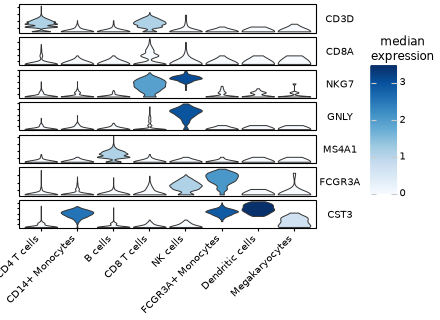
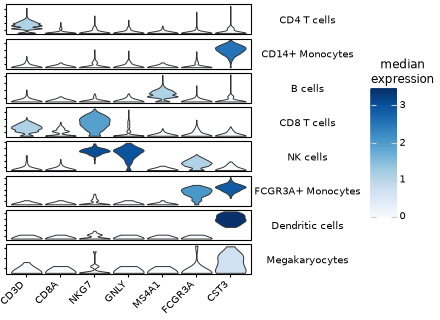
feat: stacked violin defaults to Scanpy's groups-as-rows layout, add swap_axes
The default now matches sc.pl.stacked_violin: groups on rows, genes along x
(labels at 45 degrees). swap_axes=True restores the previous genes-as-rows
layout with 90 degree group labels. Both comparison images use the default.

Changed region(s): [[0.0, 0.0, 1.0, 0.9688], [0.2364, 0.9062, 0.2659, 0.9375]]

diff --git a/src/ggann/distributions.py b/src/ggann/distributions.py
@@ -896,18 +896,19 @@ def plot_stacked_violin(
     downsample: int | None = None,
     random_state: int | None = 0,
     log: bool = False,
-    rotation: float = 90,
+    rotation: float | None = None,
+    swap_axes: bool = False,
     stripplot: bool = False,
     yticklabels: bool = False,
     cmap: str = "Blues",
 ):
-    """Compact genes-as-rows violin grid across groups (``sc.pl.stacked_violin``).
+    """Compact violin grid across groups (``sc.pl.stacked_violin``).
 
-    Genes are rows and groups run along x, the layout of
-    ``sc.pl.stacked_violin(..., swap_axes=True)`` (Scanpy's default puts groups
-    as rows). As in Scanpy, each violin is filled by that group's **median**
+    Groups are rows and genes run along x, Scanpy's default layout.
+    ``swap_axes=True`` puts genes on rows and groups along x instead. As in
+    Scanpy, each violin is filled by that group's **median**
     expression of the gene (``cmap``, shared colour bar). Each row has its own y range and no y tick labels (``yticklabels``
-    restores them), so many genes stay readable. ``downsample`` caps cells per
+    restores them), so many rows stay readable. ``downsample`` caps cells per
     group before the KDE; ``random_state`` controls which cells are retained and
     seeds the ``stripplot`` jitter.
 
@@ -916,9 +917,9 @@ def plot_stacked_violin(
     adata
         Annotated data matrix.
     genes : sequence of str
-        Genes (or numeric obs columns) shown as rows.
+        Genes (or numeric obs columns), along x (rows with ``swap_axes``).
     group_by : str
-        Observation grouping column.
+        Observation grouping column, shown as rows (along x with ``swap_axes``).
     layer, use_raw : optional
         Mutually exclusive expression source.
     scale : str
@@ -933,9 +934,12 @@ def plot_stacked_violin(
         Downsampling and jitter seed; ``None`` is nondeterministic.
     log : bool
         Plot ``log1p(expression)``; zeros stay at zero.
-    rotation : float, default=90
-        Group-label angle in degrees. Vertical labels, as in Scanpy, never
-        hang past the left edge; at smaller angles a long first label can.
+    rotation : float, optional
+        X-label angle in degrees. Default 45 for gene labels and 90 for group
+        labels (``swap_axes=True``). Vertical labels, as in Scanpy, never hang
+        past the left edge; at smaller angles a long first label can.
+    swap_axes : bool, default=False
+        Genes as rows and groups along x (Scanpy's ``swap_axes=True`` layout).
     stripplot : bool
         Overlay the individual cells as jitter.
     yticklabels : bool
@@ -973,10 +977,11 @@ def plot_stacked_violin(
         categories_order = _group_categories(adata, group_by)
     tidy = _order_groups(tidy, group_by, categories_order)
     tidy["median"] = tidy.groupby(["feature", group_by], observed=True)["value"].transform("median")
+    xcol, row = (group_by, "feature") if swap_axes else ("feature", group_by)
     plot = (
-        ggplot(tidy, aes(group_by, "value", fill="median"))
+        ggplot(tidy, aes(xcol, "value", fill="median"))
         + geom_violin(scale=scale)
-        + facet_grid("feature ~ .", scales="free_y")
+        + facet_grid(f"{row} ~ .", scales="free_y")
     )
     if stripplot:
         plot = plot + geom_jitter(
@@ -994,7 +999,7 @@ def plot_stacked_violin(
         + labs(x="", y="", fill="median\n" + ("log1p(expr)" if log else "expression"))
         + _family_theme("distribution")
         + theme(strip_text_y=element_text(angle=0))
-        + pe.rotate_x_text(rotation)
+        + pe.rotate_x_text((90 if swap_axes else 45) if rotation is None else rotation)
     )
     if not yticklabels:
         plot = plot + theme(axis_text_y=element_blank(), axis_ticks_major_y=element_blank())

diff --git a/tests/test_release_dist.py b/tests/test_release_dist.py
@@ -146,13 +146,24 @@ def test_A4_log_rejects_scaled_negative_values(adata):
 
 
 def test_A4_stacked_violin_scanpy_orientation_and_median_fill(adata):
+    # default = Scanpy's default: groups on the facet rows, genes along x
     plot = ag.plot_stacked_violin(adata, GENES, GROUP, use_raw=True)
-    assert type(plot.facet).__name__ == "facet_grid" and plot.facet.rows == ["feature"]
+    assert type(plot.facet).__name__ == "facet_grid" and plot.facet.rows == [GROUP]
     d = plot.data
     med = d.groupby(["feature", GROUP], observed=True)["value"].median()
     got = d.groupby(["feature", GROUP], observed=True)["median"].first()
     assert np.allclose(med.to_numpy(), got.to_numpy())
+    assert plot.mapping["x"] == "feature" and plot.mapping["fill"] == "median"
+    fig = plot.draw()
+    assert len(fig.axes) >= adata.obs[GROUP].nunique()  # one row per group
+
+
+def test_stacked_violin_swap_axes_is_the_genes_as_rows_layout(adata):
+    plot = ag.plot_stacked_violin(adata, GENES, GROUP, use_raw=True, swap_axes=True)
+    assert plot.facet.rows == ["feature"]
     assert plot.mapping["x"] == GROUP and plot.mapping["fill"] == "median"
+    same = ag.plot_stacked_violin(adata, GENES, GROUP, use_raw=True).data
+    pd.testing.assert_frame_equal(plot.data, same)  # only the layout differs
     fig = plot.draw()
     assert len(fig.axes) >= len(GENES)  # one row per gene
 
@@ -472,13 +483,13 @@ def test_Q12_ridge_warns_for_constant_gene_and_bandwidth_changes_curve(adata):
 
 def test_Q12_stacked_violin_hides_crowded_y_labels_by_default(adata):
     genes = list(adata.raw.var_names[:10])
-    plot = ag.plot_stacked_violin(adata, genes, GROUP, use_raw=True)
-    fig = plot.draw()
-    assert all(
-        not [t for t in ax.get_yticklabels() if t.get_text()] for ax in fig.axes[: len(genes)]
-    )
-    shown = ag.plot_stacked_violin(adata, genes[:2], GROUP, use_raw=True, yticklabels=True).draw()
-    assert any(t.get_text() for ax in shown.axes for t in ax.get_yticklabels())
+    for swap in (False, True):
+        plot = ag.plot_stacked_violin(adata, genes, GROUP, use_raw=True, swap_axes=swap)
+        fig = plot.draw()
+        assert all(not [t for t in ax.get_yticklabels() if t.get_text()] for ax in fig.axes)
+        kw = dict(use_raw=True, yticklabels=True, swap_axes=swap)
+        shown = ag.plot_stacked_violin(adata, genes[:2], GROUP, **kw).draw()
+        assert any(t.get_text() for ax in shown.axes for t in ax.get_yticklabels())
 
 
 # --------------------------------------------------------------------------- #
@@ -572,12 +583,14 @@ def test_VERIFY4_tracksplot_missing_group_not_visible(adata):
     plt.close(fig)
 
 
-def test_stacked_violin_first_x_label_inside_canvas(adata):
+@pytest.mark.parametrize("swap", [False, True])
+def test_stacked_violin_first_x_label_inside_canvas(adata, swap):
     # hidden y labels must not take away the space the first rotated x label needs
     from matplotlib.backends.backend_agg import FigureCanvasAgg
 
     genes = ["CD3D", "NKG7", "CST3"]
-    fig = ag.plot_stacked_violin(adata, genes, "bulk_labels", use_raw=True).draw()  # default 90
+    plot = ag.plot_stacked_violin(adata, genes, "bulk_labels", use_raw=True, swap_axes=swap)
+    fig = plot.draw()  # default rotation: 45 for genes, 90 for groups
     canvas = FigureCanvasAgg(fig)
     canvas.draw()
     renderer = canvas.get_renderer()

diff --git a/examples/reproduce_scanpy.py b/examples/reproduce_scanpy.py
@@ -76,9 +76,7 @@ def pairs(adata):
             lambda: ag.plot_matrixplot(adata, MARKERS, GROUP),
         ),
         "stacked_violin": (
-            # Scanpy 1.12 puts groups on rows by default; swap_axes=True gives
-            # ggann's layout (genes as rows, groups along x).
-            lambda: sc.pl.stacked_violin(adata, MARKERS, groupby=GROUP, swap_axes=True, show=False),
+            lambda: sc.pl.stacked_violin(adata, MARKERS, groupby=GROUP, show=False),
             lambda: ag.plot_stacked_violin(adata, MARKERS, GROUP),
         ),
         "violin": (

diff --git a/CHANGELOG.md b/CHANGELOG.md
@@ -91,8 +91,10 @@ Check these before re-running a figure made with a pre-release build.
 - Defaults follow Scanpy: rank-genes `n_genes=10`, rank matrixplot
   `standard_scale=None`, `plot_variance_ratio(n_pcs=30, log=False)`,
   `plot_highest_expr_genes` 30 genes.
-- `plot_stacked_violin` fills each violin by group median expression, draws
-  genes as rows (Scanpy's `swap_axes=True` layout) and labels groups at 90°.
+- `plot_stacked_violin` fills each violin by group median expression and draws
+  groups as rows with genes along x (labels at 45°), as Scanpy does by default.
+  Pass `swap_axes=True` for the earlier layout: genes as rows, groups along x
+  with labels at 90°.
 - Without stored `adata.uns["<key>_colors"]`, discrete scales use Scanpy's
   default palette instead of plotnine hues.
 - Inside `style_context`, `plot_features` and `plot_density` default to the
@@ -176,7 +178,7 @@ Check these before re-running a figure made with a pre-release build.
 
 - `plot_violin`, `plot_box`, `plot_sina`, `plot_stacked_violin`, `plot_ridge`, `plot_expression_bar` accept numeric `adata.obs` columns in `genes` (bare name, `ggann.obs("x")` or `"obs:x"`). A bare name that is also a gene stays a gene.
 - New `log=True` (violin, box, sina, stacked): plots `log1p(expression)`, zeros kept, axis labelled `log1p(expression)`. Values <= -1 raise.
-- New `order=` (subset and order of groups) and `rotation=` on violin, box, sina, stacked violin. `plot_violin` gains `jitter_size`/`jitter_alpha`; `plot_stacked_violin` gains `stripplot`, `yticklabels`, `cmap`.
+- New `order=` (subset and order of groups) and `rotation=` on violin, box, sina, stacked violin. `plot_violin` gains `jitter_size`/`jitter_alpha`; `plot_stacked_violin` gains `stripplot`, `yticklabels`, `cmap`, `swap_axes`.
 - `plot_stacked_violin` now fills each violin by group median expression (shared colour bar, `cmap="Blues"`), as scanpy does. Rows have no y tick labels by default. The group palette fill is gone.
 - Grouped marker helpers: a gene under several labels is drawn once per label (no more ValueError); values come from one computation per gene. `plot_tracksplot` accepts a `{label: [genes]}` dict (tracks titled `gene [label]`). Non-dict `gene_groups` raises TypeError.
 - `plot_tracksplot` draws `geom_rect` (about 12x to 23x faster, identical rectangles) and labels groups on the x axis.

diff --git a/docs/scanpy_parity.md b/docs/scanpy_parity.md
@@ -97,13 +97,12 @@ Helper: `plot_violin`.
 Helper: `plot_stacked_violin`.
 
 - Accepted: `var_names` as `genes`, `groupby`, `use_raw`, `layer`, `log`,
-  `order`, `rotation`, `stripplot`, `yticklabels`, `cmap`, `scale`.
-- Not supported: `dendrogram`, `swap_axes`, `var_group_positions`,
+  `order`, `rotation`, `swap_axes`, `stripplot`, `yticklabels`, `cmap`, `scale`.
+- Not supported: `dendrogram`, `var_group_positions`,
   `standard_scale`, `row_palette`, `colorbar_title`, `figsize`, a dict of marker
   groups.
-- Genes are rows and groups run along x. Scanpy 1.12 draws groups as rows and
-  genes along x by default; its `swap_axes=True` gives the ggann layout, and the
-  comparison image below uses it. Each violin is filled by the group's median
+- Groups are rows and genes run along x, as in Scanpy's default; `swap_axes=True`
+  transposes both. Each violin is filled by the group's median
   expression with one shared colour bar (`cmap="Blues"`), as in Scanpy. Rows
   have no y tick labels unless `yticklabels=True`.
 - Grammar: the violin recipe with `facet_grid("feature ~ .", scales="free_y")`
@@ -258,9 +257,8 @@ for those workflows.
 
 The committed images were generated by `examples/reproduce_scanpy.py` from one
 `pbmc3k_processed` object. They are visual references, not performance evidence.
-Two pairs use non-default options so that both sides show the same layout or
-statistic: Scanpy's stacked violin passes `swap_axes=True`, and ggann's
-correlation uses `use_rep="X_pca"`. Both matrixplots show raw group means. The
+One pair uses a non-default option so that both sides show the same statistic:
+ggann's correlation uses `use_rep="X_pca"`. Both matrixplots show raw group means. The
 ggann tracksplot is drawn wider (8 in) to reduce label overlap; the labels of
 the two smallest groups still touch.
 

diff --git a/docs/comparisons.md b/docs/comparisons.md
@@ -101,7 +101,7 @@ statistic.
 | `plot_matrixplot_grouped` | Matrix table plus gene-set labels | Matrix recipe plus grouped x-axis facets |
 | `plot_heatmap` | Per-cell long expression table | `ggplot + geom_tile` |
 | `plot_violin` | Per-cell long expression table | `ggplot + geom_violin + facet_wrap` |
-| `plot_stacked_violin` | Per-cell long expression table | Violin recipe with one row per feature, filled by group median |
+| `plot_stacked_violin` | Per-cell long expression table | Violin recipe with one row per group (per feature with `swap_axes`), filled by group median |
 | `plot_tracksplot` | Per-cell long expression ordered by group | `ggplot + geom_rect + facet_grid` |
 | `plot_box` | Per-cell long expression table | `ggplot + geom_boxplot` and optional points |
 | `plot_sina` | Per-cell long expression table | `ggplot + plotnine_extra.geom_sina` |

diff --git a/docs/migration.md b/docs/migration.md
@@ -140,15 +140,15 @@ does not materialize expression.
 ```python
 # Scanpy
 sc.pl.stacked_violin(
-    adata, genes, groupby="louvain", use_raw=True, swap_axes=True, show=False
+    adata, genes, groupby="louvain", use_raw=True, show=False
 )
 
 # ggann
 stacked = ag.plot_stacked_violin(adata, genes, group_by="louvain", use_raw=True)
 ```
 
-ggann draws genes as rows and groups along x. Scanpy 1.12 draws the transpose by
-default, so pass `swap_axes=True` to Scanpy for the same layout. Each violin is
+Both draw groups as rows and genes along x. Pass `swap_axes=True` to either
+for genes as rows. Each violin is
 filled by the group's median expression with one shared colour bar
 (`cmap="Blues"`), as in Scanpy. Rows have no y tick labels; pass
 `yticklabels=True` to show them.

diff --git a/docs/gallery.md b/docs/gallery.md
@@ -82,10 +82,10 @@ add a joint panel.
 The panels show `plot_dotplot`, `plot_stacked_violin`, `plot_box`, and
 `plot_expression_bar`. The dotplot draws the first category at the top, as
 Scanpy does; use `swap_axes=True` to transpose it, not `coord_flip()`. The
-stacked violin has genes as rows, fills each violin by the group's median
+stacked violin has groups as rows and genes along x (`swap_axes=True` transposes it), fills each violin by the group's median
 expression, and hides the y tick labels (`yticklabels=True` restores them).
 `order=`, `log=True` and `rotation=` select groups, plot `log1p(expression)`
-and turn the group labels.
+and turn the x labels.
 
 ## Differential expression
 

diff --git a/docs/api.md b/docs/api.md
@@ -83,7 +83,7 @@ plotnine's default `theme_gray`. See {doc}`concepts`.
 - `plot_tracksplot` accepts a `{label: [genes]}` dict; tracks are titled
   `gene [label]`.
 - `plot_stacked_violin` fills each violin by group median expression
-  (`cmap="Blues"`), puts genes in rows, and has no y tick labels unless
+  (`cmap="Blues"`), puts groups in rows and genes along x (`swap_axes=True` transposes it), and has no y tick labels unless
   `yticklabels=True`.
 - `plot_clustermap` draws no dendrogram unless you pass `row_dendrogram=True`
   or `col_dendrogram=True`. PyComplexHeatmap sizes the figure when the plot is
